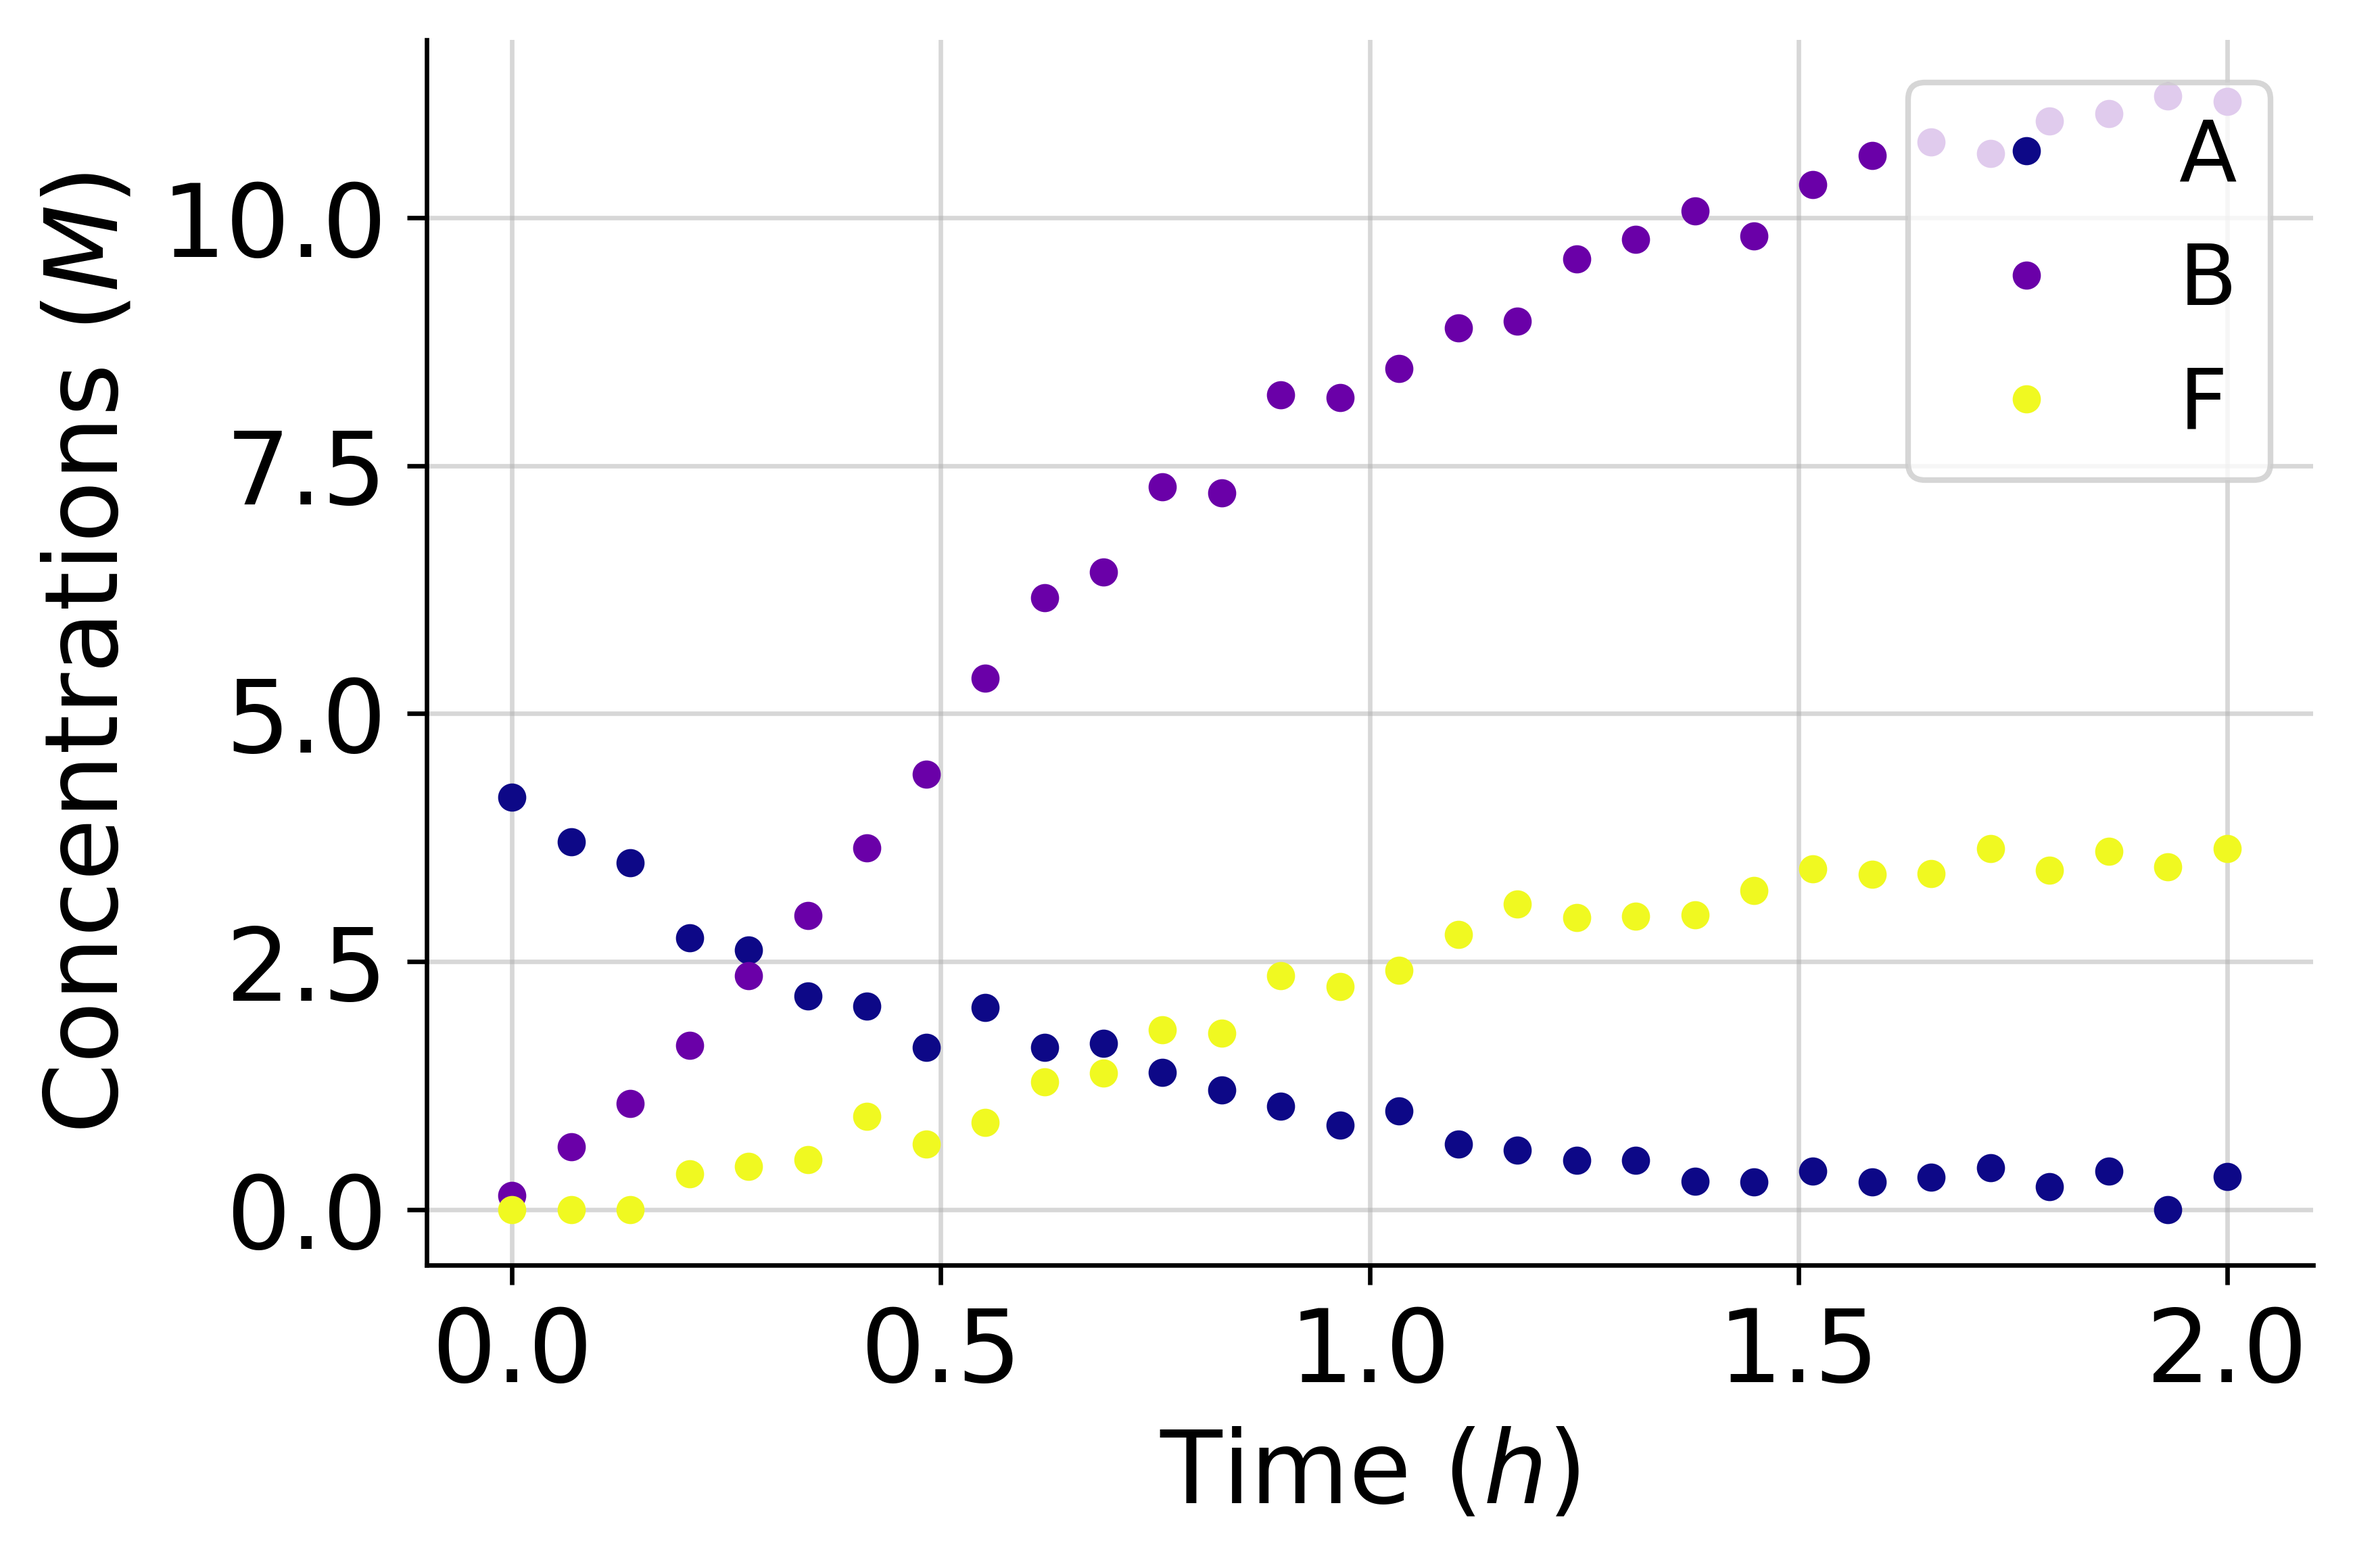
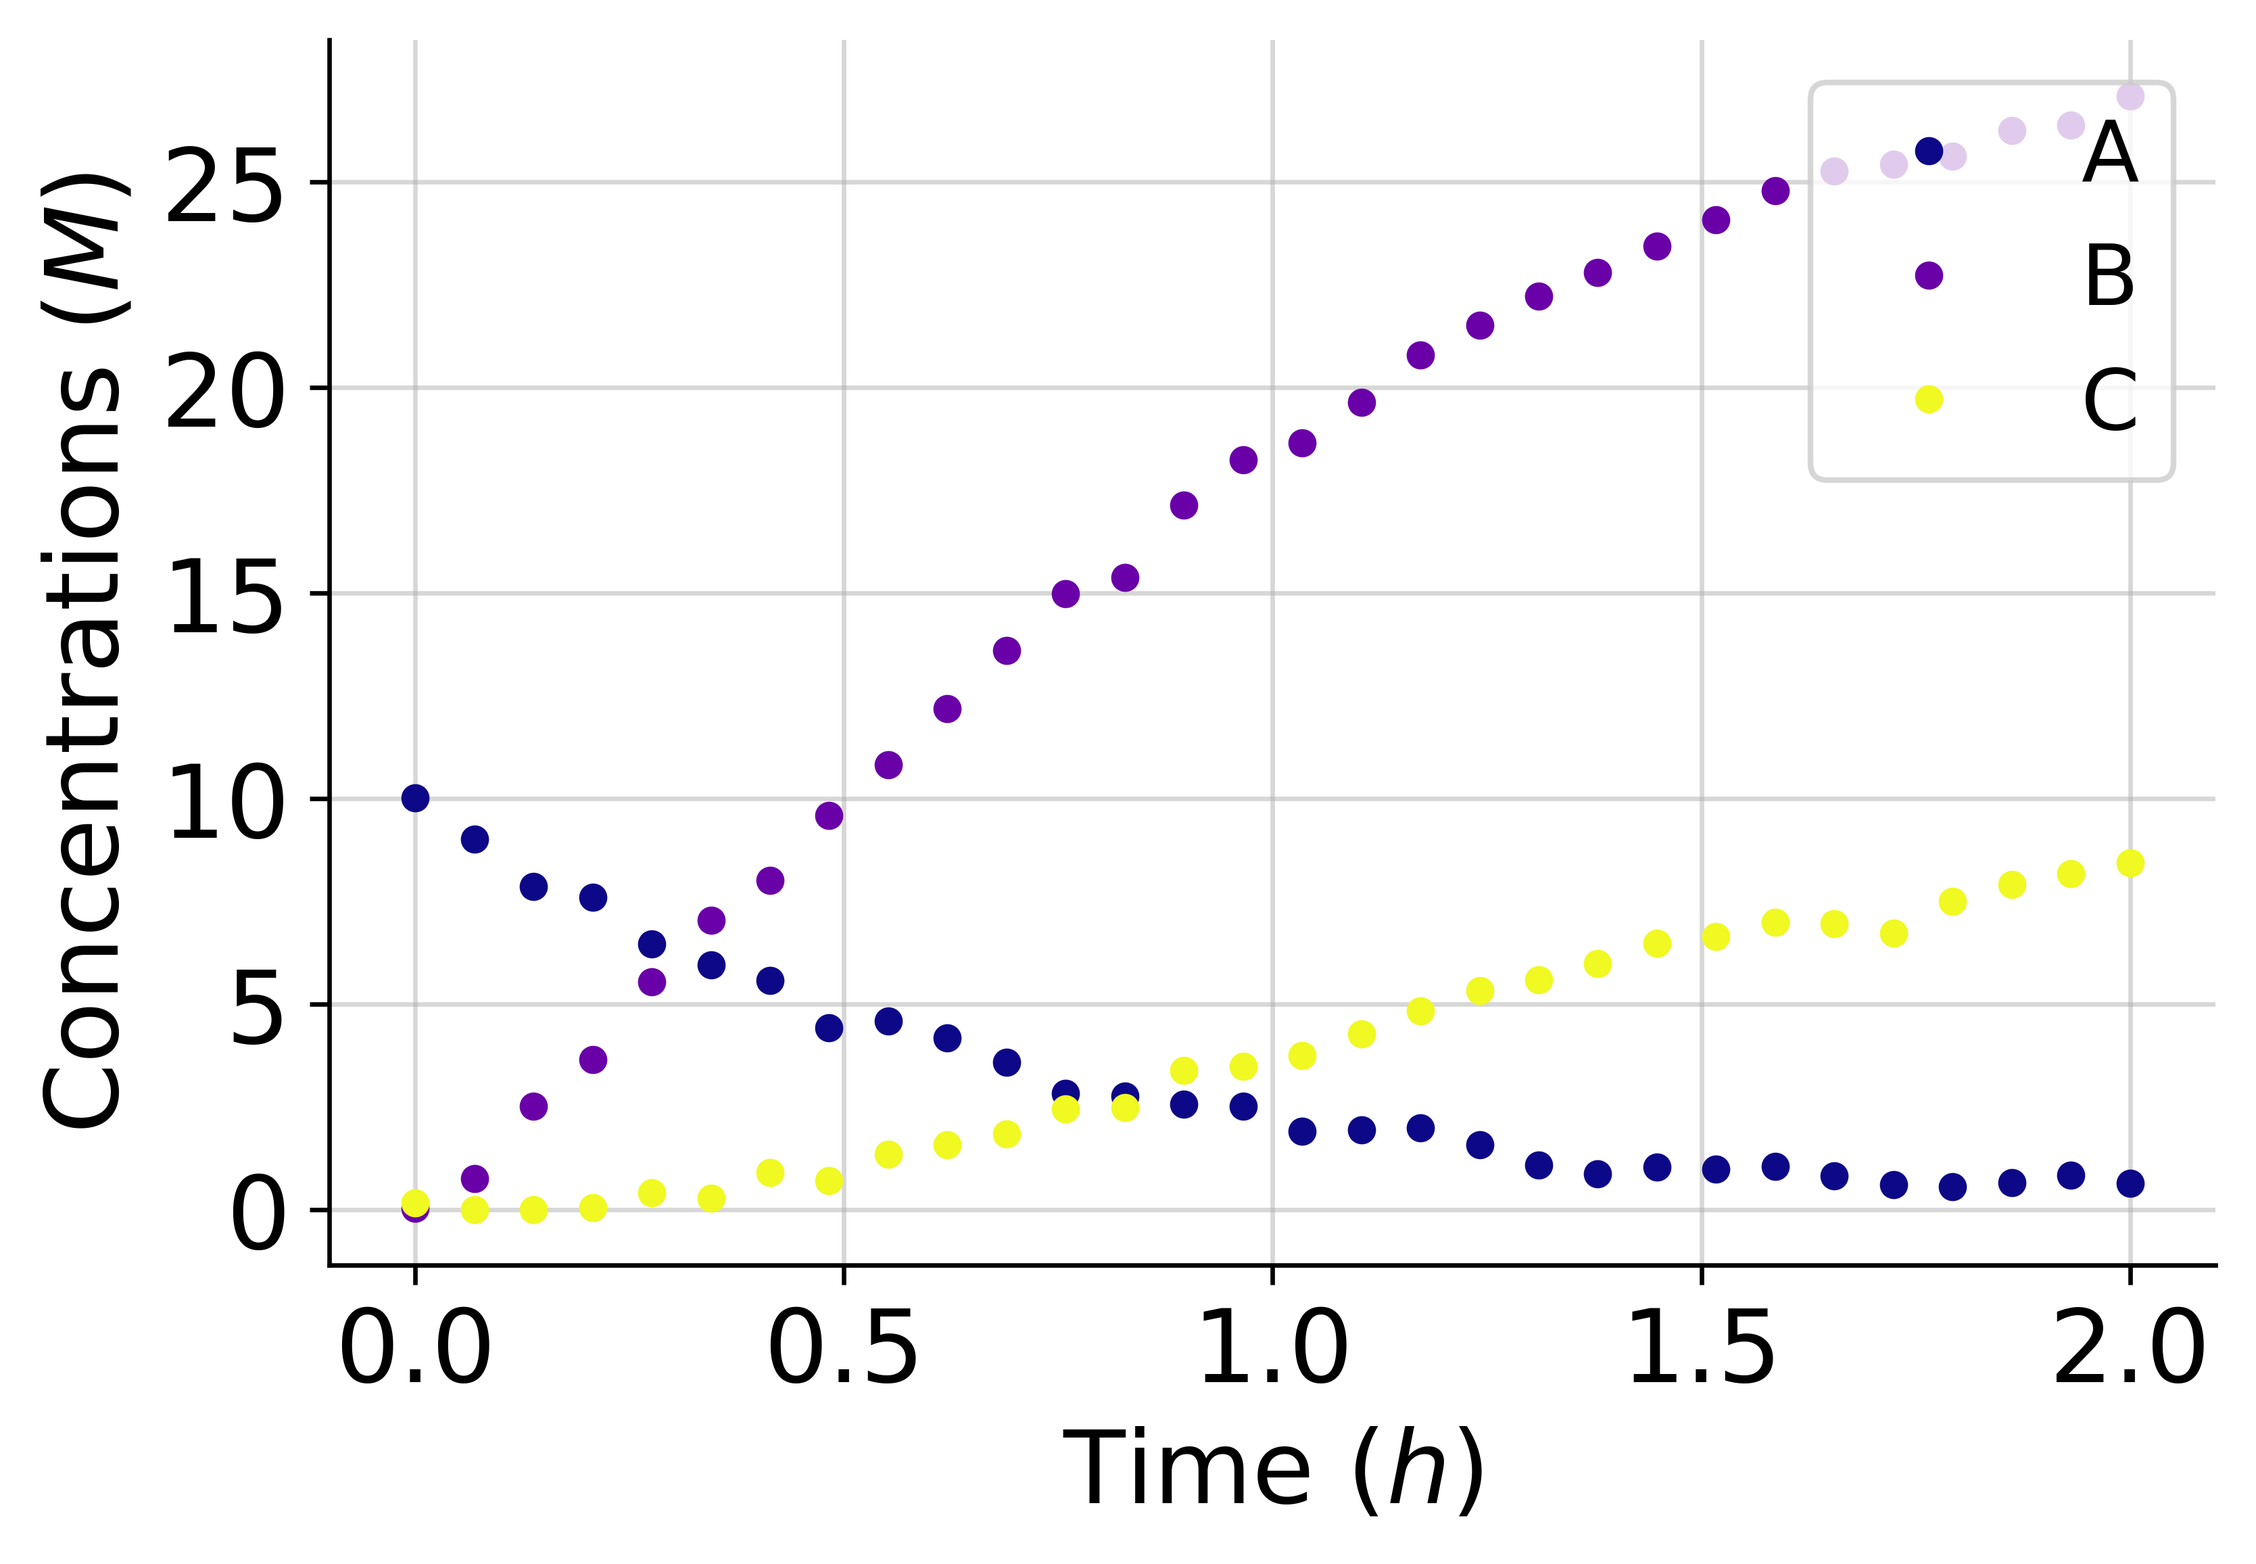
fixed case study

diff --git a/fructose_to_HMF.py b/fructose_to_HMF.py
@@ -13,31 +13,34 @@ from ODE_generator import make_system
 import matplotlib.cm as cm
 import pandas as pd
 
-r1 = 'A -> B + C'
-r2 = 'C -> B + D'
-r3 = 'D -> E'
-r4 = 'E -> B + F'
+r1 = 'A -> B + D'
+r2 = 'D -> B + E'
+r3 = 'E -> F'
+r4 = 'F -> B + C'
 reactions = [r1, r2, r3, r4]
 mechanism = make_system(reactions)
 print(mechanism)
 
 def kinetic_model(x, init, k1, k2, k3, k4):
-    CA,CB,CC,CD,CE,CF = init
+    CA,CB,CD,CE,CF,CC = init
     dAdt = - k1*CA
-    dBdt = k1*CA + k2*CC + k4*CE
-    dCdt = k1*CA - k2*CC
-    dDdt = k2*CC - k3*CD
-    dEdt = k3*CD - k4*CE
-    dFdt = k4*CE
-    return dAdt,dBdt,dCdt,dDdt,dEdt,dFdt
+    dBdt = k1*CA + k2*CD + k4*CF
+    dDdt = k1*CA - k2*CD
+    dEdt = k2*CD - k3*CE
+    dFdt = k3*CE - k4*CF
+    dCdt = k4*CF
+    return dAdt,dBdt,dDdt,dEdt,dFdt,dCdt
 
 # Plotting the data given
-species = ['A', 'B', 'C', 'D', 'E', 'F']
+species = ['A', 'B', 'D', 'E', 'F', 'C']
 initial_conditions = {
-    "ic_1": np.array([4, 0, 0, 0, 0, 0])
+    # "ic_1": np.array([4, 0, 0, 0, 0, 0])
+    # "ic_1": np.array([10,          9.61831914, 0, 0, 0,  9.54056527])
+    "ic_1": np.array([10, 0, 0, 0, 0, 0])
     }
 
 rate_constants = np.array([1.514, 8.259, 8.359, 9.352])
+rate_constants = np.array([1.514, 5.259, 2.359, 9.352])
     
 num_exp = len(initial_conditions)
 num_species = len(species)

diff --git a/plot_optimal_solution.py b/plot_optimal_solution.py
@@ -6,7 +6,7 @@ from parameter_estimation import read_files
 
 def plot(unique_letters, model_predictions):
 
-    in_silico_data = read_files("auto_react_mech_construct/exp_data")
+    in_silico_data = read_files("exp_data_fruc_HMF")
 
     # This takes the first column from each entry of the dictionary and puts it into another dictionary
     initial_conditions = {}
@@ -39,8 +39,15 @@ def plot(unique_letters, model_predictions):
         for j in np.array([0, 1, -1]):
             y = in_silico_data["exp_" + str(i + 1)][:, j]
             yy = model_predictions["exp_" + str(i + 1)][:, j]
-            ax.plot(time, y, marker[j], markersize = 4, label = species[j], color = color_1[j])
-            ax.plot(time, yy, '-', color = color_1[j])
+            
+            if j == -1:
+                ax.plot(time, y, marker[j], markersize = 4, label = 'C', color = color_1[j])
+                ax.plot(time, yy, '-', color = color_1[j])
+                
+            else:
+                ax.plot(time, y, marker[j], markersize = 4, label = species[j], color = color_1[j])
+                ax.plot(time, yy, '-', color = color_1[j])
+                        
         
         ax.grid(alpha = 0.5)
         ax.legend(loc='upper right', fontsize = 15)

diff --git a/parameter_estimation.py b/parameter_estimation.py
@@ -30,7 +30,7 @@ def read_files(directory):
                                           encoding = 'latin1').values
     return data
 
-in_silico_data = read_files("auto_react_mech_construct/exp_data")
+in_silico_data = read_files("exp_data_fruc_HMF")
 
 # This takes the first column from each entry of the dictionary and puts it into another dictionary
 initial_conditions = {}

diff --git a/reaction_generation.py b/reaction_generation.py
@@ -14,7 +14,7 @@ def get_unique_intermediates(count, products, reactant):
     next_char_num = ord(last_char)+1
 
     # Generate intermediates starting from the next char
-    return [chr(next_char_num + i) for i in range(count)]
+    return [chr(next_char_num + i) for i in range(count - 1)]
 
 def create_reactions(reactant, products, intermediates):
     reactions = []

diff --git a/main.py b/main.py
@@ -19,8 +19,8 @@ def bob_the_mechanism_builder(
     reaction_chains = []
 
     # Initialize flag variables
-    last_AIC = 100
-    AIC = 100
+    last_AIC = 1000
+    AIC = 1000
     opt_solution = {}
 
     # do this loop until current AIC is greater than last iteration's AIC
